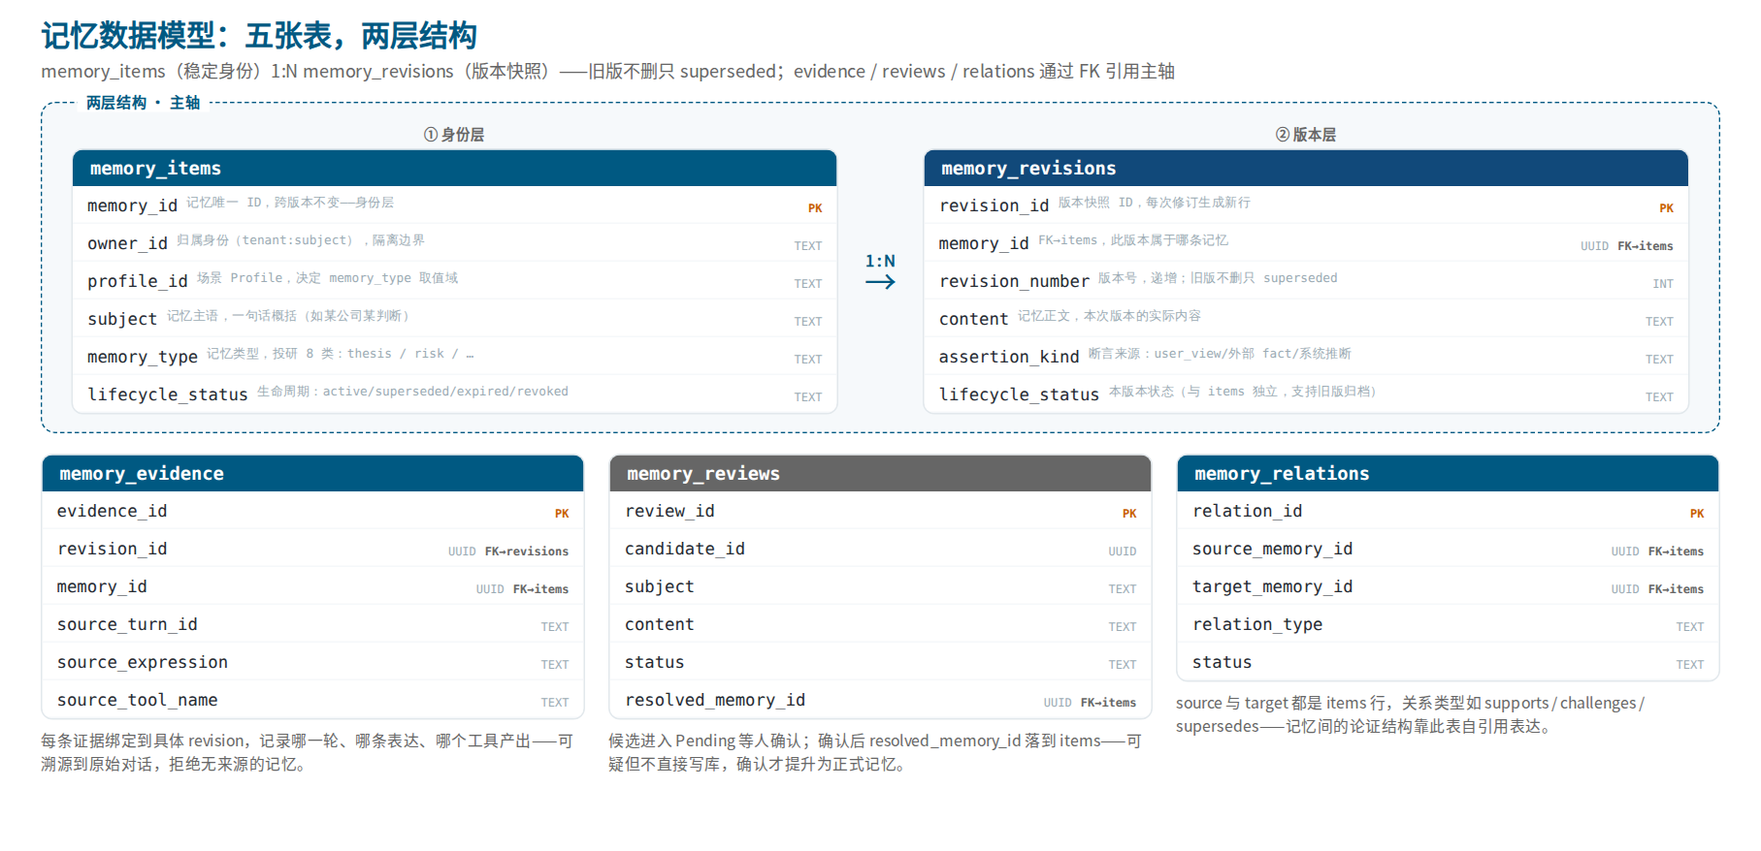
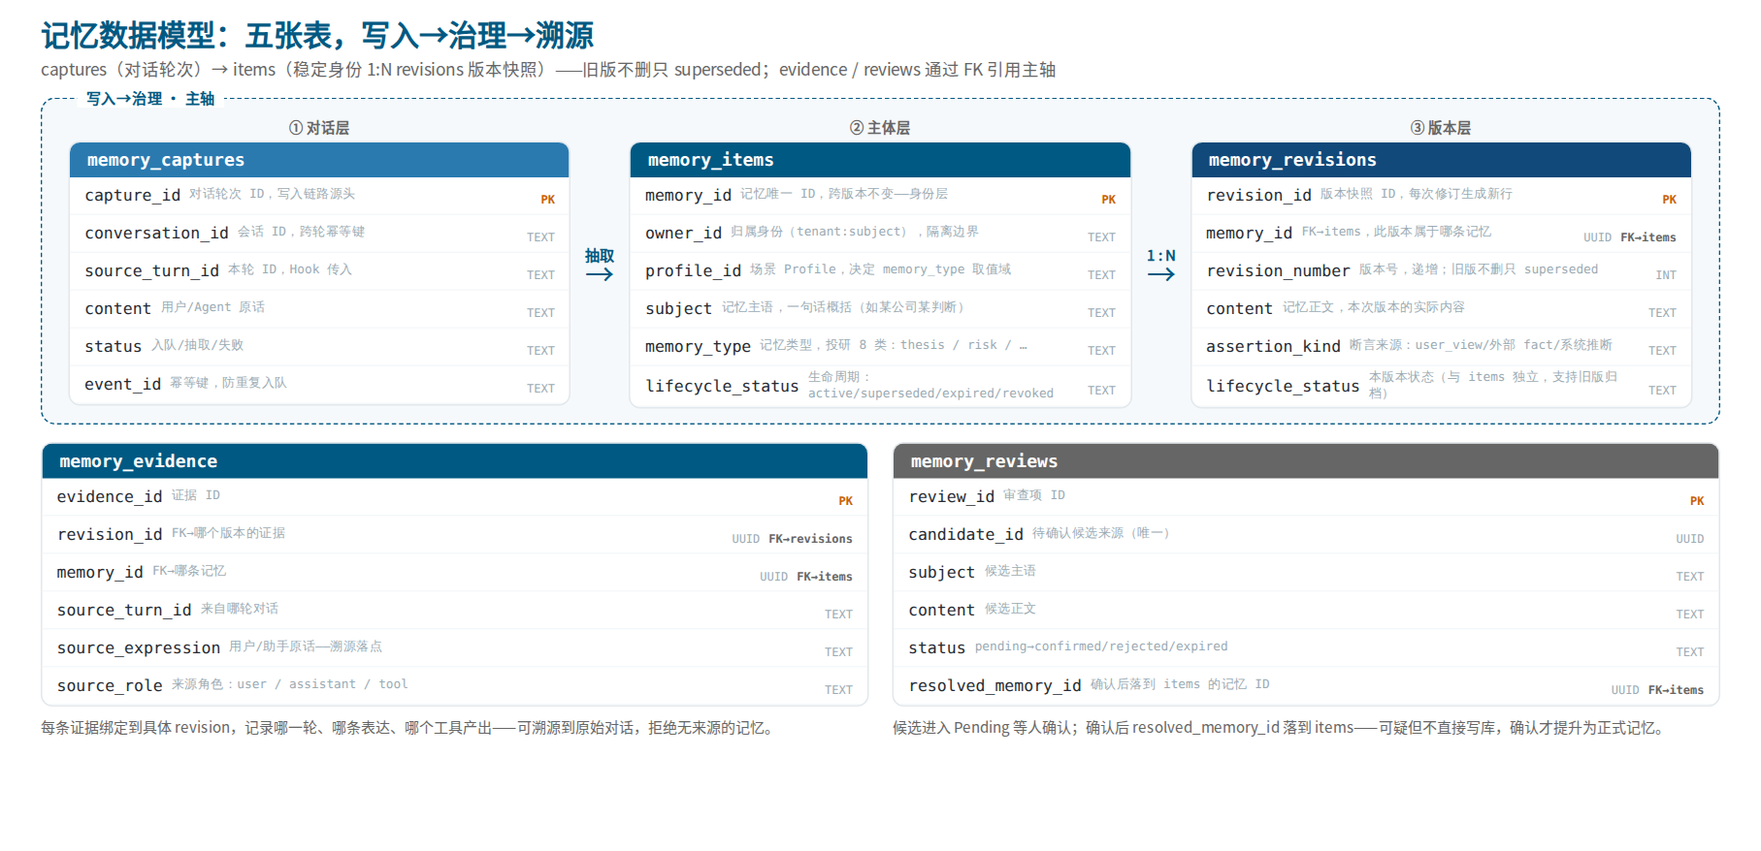
调整ppt内容

diff --git a/docs/ppt/render_html.py b/docs/ppt/render_html.py
@@ -445,8 +445,8 @@ def core_loop():
 
 # ===== P10 记忆数据模型（详细解释治理字段）=====
 def memory_model():
-    """记忆数据模型 = 五张表结构图。顶部横向主轴(items→1:N→revisions 虚线框=两层结构)，
-    下方三列附属表(evidence/reviews/relations)，表框自然高度+说明文字填空白。经 schema.sql 核实。"""
+    """记忆数据模型 = 六张表结构图。上区三表主轴(captures→items 1:N revisions，
+    对话→身份→版本)，下区三附属表(evidence/reviews/relations)。经 schema.sql 核实。"""
     def tbl(name, rows, accent, descs=None):
         """表框，自然高度。字段行：字段名(左)+解释(中,可选)+类型/PK/FK标签(右)。"""
         fr = ""
@@ -462,29 +462,29 @@ def memory_model():
             if desc:
                 fr += (f"<div style='display:flex;justify-content:space-between;align-items:center;gap:6px;"
                        f"padding:3px 10px;border-bottom:1px solid {C['vly']};font-family:monospace;'>"
-                       f"<span style='font-size:11.5px;color:{C['ink']};flex:0 0 auto;'>{fname}</span>"
+                       f"<span style='font-size:11px;color:{C['ink']};flex:0 0 auto;'>{fname}</span>"
                        f"<span style='font-size:8.5px;color:{C['gray']};line-height:1.25;flex:1;text-align:left;'>{desc}</span>"
                        f"<span style='flex:0 0 auto;'>{right}</span></div>")
             else:
                 fr += (f"<div style='display:flex;justify-content:space-between;align-items:center;"
                        f"padding:3px 10px;border-bottom:1px solid {C['vly']};font-family:monospace;'>"
-                       f"<span style='font-size:11.5px;color:{C['ink']};'>{fname}</span>"
+                       f"<span style='font-size:11px;color:{C['ink']};'>{fname}</span>"
                        f"<span>{right}</span></div>")
         return f"""
         <div style='border:1px solid {C['light']};border-radius:8px;overflow:hidden;background:#fff;flex:0 0 auto;'>
-          <div style='background:{accent};color:#fff;padding:5px 12px;font-size:12.5px;font-weight:800;font-family:monospace;'>{name}</div>
+          <div style='background:{accent};color:#fff;padding:5px 12px;font-size:12px;font-weight:800;font-family:monospace;'>{name}</div>
           {fr}
         </div>"""
 
-    def col(table_html, desc):
-        """下方附属表列：表(顶) + 说明文字(flex:1 填底)。"""
-        return f"""
-        <div style='flex:1;display:flex;flex-direction:column;'>
-          {table_html}
-          <div style='flex:1;margin-top:8px;font-size:10.5px;line-height:1.55;color:{C['mid']};'>{desc}</div>
-        </div>"""
-
-    # 五张表（经 schema.sql 核实字段名/类型/关系；上区两表带字段解释）
+    # 六张表（经 schema.sql 核实字段名/类型/关系；上区三表带字段解释）
+    cap_descs = {
+        "capture_id": "对话轮次 ID，写入链路源头",
+        "conversation_id": "会话 ID，跨轮幂等键",
+        "source_turn_id": "本轮 ID，Hook 传入",
+        "content": "用户/Agent 原话",
+        "status": "入队/抽取/失败",
+        "event_id": "幂等键，防重复入队",
+    }
     items_descs = {
         "memory_id": "记忆唯一 ID，跨版本不变——身份层",
         "owner_id": "归属身份（tenant:subject），隔离边界",
@@ -501,41 +501,65 @@ def memory_model():
         "assertion_kind": "断言来源：user_view/外部 fact/系统推断",
         "lifecycle_status": "本版本状态（与 items 独立，支持旧版归档）",
     }
+    cap_tbl = tbl("memory_captures", [
+        ("capture_id", "UUID", "PK"), ("conversation_id", "TEXT", ""),
+        ("source_turn_id", "TEXT", ""), ("content", "TEXT", ""),
+        ("status", "TEXT", ""), ("event_id", "TEXT", ""),
+    ], C["blue"], cap_descs)
     items_tbl = tbl("memory_items", [
-        ("memory_id", "UUID", "PK"), ("owner_id", "TEXT", ""), ("profile_id", "TEXT", ""),
-        ("subject", "TEXT", ""), ("memory_type", "TEXT", ""), ("lifecycle_status", "TEXT", ""),
+        ("memory_id", "UUID", "PK"), ("owner_id", "TEXT", ""),
+        ("profile_id", "TEXT", ""), ("subject", "TEXT", ""),
+        ("memory_type", "TEXT", ""), ("lifecycle_status", "TEXT", ""),
     ], C["navy"], items_descs)
     rev_tbl = tbl("memory_revisions", [
         ("revision_id", "UUID", "PK"), ("memory_id", "UUID", "FK→items"),
         ("revision_number", "INT", ""), ("content", "TEXT", ""),
         ("assertion_kind", "TEXT", ""), ("lifecycle_status", "TEXT", ""),
     ], C["deepnavy"], rev_descs)
+    ev_descs = {
+        "evidence_id": "证据 ID",
+        "revision_id": "FK→哪个版本的证据",
+        "memory_id": "FK→哪条记忆",
+        "source_turn_id": "来自哪轮对话",
+        "source_expression": "用户/助手原话——溯源落点",
+        "source_role": "来源角色：user / assistant / tool",
+    }
     ev_tbl = tbl("memory_evidence", [
         ("evidence_id", "UUID", "PK"), ("revision_id", "UUID", "FK→revisions"),
         ("memory_id", "UUID", "FK→items"), ("source_turn_id", "TEXT", ""),
-        ("source_expression", "TEXT", ""), ("source_tool_name", "TEXT", ""),
-    ], C["navy"])
+        ("source_expression", "TEXT", ""), ("source_role", "TEXT", ""),
+    ], C["navy"], ev_descs)
+    rv_descs = {
+        "review_id": "审查项 ID",
+        "candidate_id": "待确认候选来源（唯一）",
+        "subject": "候选主语",
+        "content": "候选正文",
+        "status": "pending→confirmed/rejected/expired",
+        "resolved_memory_id": "确认后落到 items 的记忆 ID",
+    }
     rev2_tbl = tbl("memory_reviews", [
         ("review_id", "UUID", "PK"), ("candidate_id", "UUID", ""),
         ("subject", "TEXT", ""), ("content", "TEXT", ""),
         ("status", "TEXT", ""), ("resolved_memory_id", "UUID", "FK→items"),
-    ], C["mid"])
+    ], C["mid"], rv_descs)
     rel_tbl = tbl("memory_relations", [
         ("relation_id", "UUID", "PK"), ("source_memory_id", "UUID", "FK→items"),
         ("target_memory_id", "UUID", "FK→items"), ("relation_type", "TEXT", ""),
         ("status", "TEXT", ""),
     ], C["navy"])
 
-    # 横向 1:N 箭头：items → revisions（两层结构主轴）
-    harrow = f"""
-    <div style='display:flex;flex-direction:column;align-items:center;justify-content:center;flex:0 0 auto;align-self:center;'>
-      <div style='font-size:11px;font-weight:800;color:{C['navy']};'>1 : N</div>
-      <div style='font-size:22px;color:{C['navy']};line-height:0.6;'>→</div>
-    </div>"""
+    # 横向箭头
+    def harrow(label):
+        return f"""
+        <div style='display:flex;flex-direction:column;align-items:center;justify-content:center;flex:0 0 auto;align-self:center;'>
+          <div style='font-size:10px;font-weight:800;color:{C['navy']};'>{label}</div>
+          <div style='font-size:20px;color:{C['navy']};line-height:0.6;'>→</div>
+        </div>"""
     layer_tag = f"""
-    <div style='position:absolute;top:-9px;left:24px;background:#fff;padding:0 6px;font-size:10px;font-weight:800;color:{C['navy']};letter-spacing:0.5px;'>两层结构 · 主轴</div>"""
-    l1 = f"<div style='font-size:9.5px;color:{C['mid']};font-weight:700;text-align:center;margin-bottom:3px;'>① 身份层</div>"
-    l2 = f"<div style='font-size:9.5px;color:{C['mid']};font-weight:700;text-align:center;margin-bottom:3px;'>② 版本层</div>"
+    <div style='position:absolute;top:-9px;left:24px;background:#fff;padding:0 6px;font-size:10px;font-weight:800;color:{C['navy']};letter-spacing:0.5px;'>写入→治理 · 主轴</div>"""
+    l0 = f"<div style='font-size:9.5px;color:{C['mid']};font-weight:700;text-align:center;margin-bottom:3px;'>① 对话层</div>"
+    l1 = f"<div style='font-size:9.5px;color:{C['mid']};font-weight:700;text-align:center;margin-bottom:3px;'>② 主体层</div>"
+    l2 = f"<div style='font-size:9.5px;color:{C['mid']};font-weight:700;text-align:center;margin-bottom:3px;'>③ 版本层</div>"
 
     # 附属表说明文字（核实语义）
     ev_desc = "每条证据绑定到具体 revision，记录哪一轮、哪条表达、哪个工具产出——可溯源到原始对话，拒绝无来源的记忆。"
@@ -544,21 +568,22 @@ def memory_model():
 
     body = f"""
     <div style='padding:8px 28px 0 28px;'>
-      <div class='h2' style='font-size:20px;'>记忆数据模型：五张表，两层结构</div>
-      <div class='sub' style='margin-top:2px;font-size:12px;'>memory_items（稳定身份）1:N memory_revisions（版本快照）——旧版不删只 superseded；evidence / reviews / relations 通过 FK 引用主轴</div>
+      <div class='h2' style='font-size:20px;'>记忆数据模型：五张表，写入→治理→溯源</div>
+      <div class='sub' style='margin-top:2px;font-size:11.5px;'>captures（对话轮次）→ items（稳定身份 1:N revisions 版本快照）——旧版不删只 superseded；evidence / reviews 通过 FK 引用主轴</div>
     </div>
-    <!-- 上区：两层结构主轴（虚线框只包 items→revisions） -->
-    <div style='position:relative;border:1.5px dashed {C['navy']};border-radius:10px;padding:14px 20px 12px;margin:14px 28px 0 28px;display:flex;align-items:flex-start;gap:18px;background:rgba(0,89,130,0.035);'>
+    <!-- 上区：三表主轴（虚线框包 captures→items→revisions） -->
+    <div style='position:relative;border:1.5px dashed {C['navy']};border-radius:10px;padding:12px 18px 10px;margin:12px 28px 0 28px;display:flex;align-items:flex-start;gap:10px;background:rgba(0,89,130,0.035);'>
       {layer_tag}
+      <div style='flex:1;'>{l0}{cap_tbl}</div>
+      {harrow("抽取")}
       <div style='flex:1;'>{l1}{items_tbl}</div>
-      {harrow}
+      {harrow("1 : N")}
       <div style='flex:1;'>{l2}{rev_tbl}</div>
     </div>
-    <!-- 下区：三张附属表横排（均在两层结构之外，FK 引用主轴） -->
-    <div style='display:flex;gap:16px;margin:14px 28px 0 28px;align-items:stretch;'>
-      <div style='flex:1;display:flex;flex-direction:column;'>{ev_tbl}<div style='flex:1;margin-top:6px;font-size:10.5px;line-height:1.55;color:{C['mid']};'>{ev_desc}</div></div>
-      <div style='flex:1;display:flex;flex-direction:column;'>{rev2_tbl}<div style='flex:1;margin-top:6px;font-size:10.5px;line-height:1.55;color:{C['mid']};'>{rv_desc}</div></div>
-      <div style='flex:1;display:flex;flex-direction:column;'>{rel_tbl}<div style='flex:1;margin-top:6px;font-size:10.5px;line-height:1.55;color:{C['mid']};'>{rl_desc}</div></div>
+    <!-- 下区：两张附属表横排（FK 引用主轴：证据 + 审查） -->
+    <div style='display:flex;gap:16px;margin:12px 28px 0 28px;align-items:stretch;'>
+      <div style='flex:1;display:flex;flex-direction:column;'>{ev_tbl}<div style='flex:1;margin-top:6px;font-size:10px;line-height:1.55;color:{C['mid']};'>{ev_desc}</div></div>
+      <div style='flex:1;display:flex;flex-direction:column;'>{rev2_tbl}<div style='flex:1;margin-top:6px;font-size:10px;line-height:1.55;color:{C['mid']};'>{rv_desc}</div></div>
     </div>"""
     return _page(body)
 
@@ -1089,29 +1114,21 @@ def test_design_full():
 
 
 # ===== P18 演示 =====
-def _demo_contrast_page(title, condition, left_one, right_one):
-    """对照页：顶部标题 → 左右对话截图占位（撑满到底，无 DB 条）。
-    要点压成一句，截图区留空，画布绝大部分留给截图。"""
+def _demo_contrast_page(title, left_tag, right_tag):
+    """对照页：标题 → 左右对话截图占位撑满到底，只留左右标签区分。"""
     NAVY = C["navy"]
     body = f"""
-    <div style='padding:20px 30px 0 30px;display:flex;align-items:baseline;justify-content:space-between;gap:24px;'>
+    <div style='padding:20px 30px 0 30px;'>
       <div class='h2' style='font-size:21px;'>{title}</div>
-      <div class='sub' style='font-size:12.5px;white-space:nowrap;'>{condition}</div>
     </div>
-    <div style='position:absolute;top:74px;left:30px;right:30px;bottom:20px;display:flex;gap:16px;'>
+    <div style='position:absolute;top:64px;left:30px;right:30px;bottom:20px;display:flex;gap:16px;'>
       <div style='flex:1;background:{C['vly']};border:1.5px dashed {C['light']};border-radius:10px;padding:12px 16px;display:flex;flex-direction:column;'>
-        <div style='display:flex;align-items:center;gap:8px;margin-bottom:8px;'>
-          <span style='background:#bbb;color:#fff;border-radius:3px;padding:2px 8px;font-size:11px;font-weight:700;'>无记忆</span>
-          <span style='font-size:12px;color:{C['mid']};'>{left_one}</span>
-        </div>
-        <div style='flex:1;background:#fff;border-radius:6px;'></div>
+        <span style='background:#bbb;color:#fff;border-radius:3px;padding:3px 10px;font-size:12px;font-weight:700;align-self:flex-start;'>{left_tag}</span>
+        <div style='flex:1;background:#fff;border-radius:6px;margin-top:10px;'></div>
       </div>
       <div style='flex:1;background:{C['pblue']};border:1.5px solid {NAVY};border-radius:10px;padding:12px 16px;display:flex;flex-direction:column;'>
-        <div style='display:flex;align-items:center;gap:8px;margin-bottom:8px;'>
-          <span style='background:{NAVY};color:#fff;border-radius:3px;padding:2px 8px;font-size:11px;font-weight:700;'>有记忆</span>
-          <span style='font-size:12px;color:{NAVY};'>{right_one}</span>
-        </div>
-        <div style='flex:1;background:#fff;border-radius:6px;'></div>
+        <span style='background:{NAVY};color:#fff;border-radius:3px;padding:3px 10px;font-size:12px;font-weight:700;align-self:flex-start;'>{right_tag}</span>
+        <div style='flex:1;background:#fff;border-radius:6px;margin-top:10px;'></div>
       </div>
     </div>"""
     return _page(body)
@@ -1121,34 +1138,26 @@ def demo_contrast_continue():
     """P19 延续性对照"""
     return _demo_contrast_page(
         "延续性：新开会话能不能从上次判断继续",
-        "同一投资对象，新开一个会话再问",
-        "每次从零开始，泛泛而谈",
-        "召回上次判断，延续推理",
+        "无记忆",
+        "有记忆",
     )
 
 
-def _demo_scene_page(title, condition, one_liner, db_label):
-    """场景页：顶部标题 → 左对话截图 + 右 DB 截图（左右撑满到底，截图区留空）。"""
+def _demo_scene_page(title):
+    """场景页：标题 → 左对话截图 + 右 DB 截图撑满到底，只留左右标签。"""
     NAVY = C["navy"]
     body = f"""
-    <div style='padding:20px 30px 0 30px;display:flex;align-items:baseline;justify-content:space-between;gap:24px;'>
+    <div style='padding:20px 30px 0 30px;'>
       <div class='h2' style='font-size:21px;'>{title}</div>
-      <div class='sub' style='font-size:12.5px;white-space:nowrap;'>{condition}</div>
     </div>
-    <div style='position:absolute;top:74px;left:30px;right:30px;bottom:20px;display:flex;gap:16px;'>
+    <div style='position:absolute;top:64px;left:30px;right:30px;bottom:20px;display:flex;gap:16px;'>
       <div style='flex:1.15;background:{C['pblue']};border:1.5px solid {NAVY};border-radius:10px;padding:12px 16px;display:flex;flex-direction:column;'>
-        <div style='display:flex;align-items:center;gap:8px;margin-bottom:8px;'>
-          <span style='background:{NAVY};color:#fff;border-radius:3px;padding:2px 8px;font-size:11px;font-weight:700;'>对话</span>
-          <span style='font-size:12px;color:{NAVY};'>{one_liner}</span>
-        </div>
-        <div style='flex:1;background:#fff;border-radius:6px;'></div>
+        <span style='background:{NAVY};color:#fff;border-radius:3px;padding:3px 10px;font-size:12px;font-weight:700;align-self:flex-start;'>对话</span>
+        <div style='flex:1;background:#fff;border-radius:6px;margin-top:10px;'></div>
       </div>
       <div style='flex:1;background:#fff;border:1px solid {NAVY};border-radius:10px;padding:12px 16px;display:flex;flex-direction:column;'>
-        <div style='display:flex;align-items:center;gap:8px;margin-bottom:8px;'>
-          <span style='background:{NAVY};color:#fff;border-radius:3px;padding:2px 8px;font-size:11px;font-weight:700;'>DB</span>
-          <span style='font-size:12px;color:{NAVY};'>{db_label}</span>
-        </div>
-        <div style='flex:1;background:#fff;border:1px solid {C['light']};border-radius:6px;'></div>
+        <span style='background:{NAVY};color:#fff;border-radius:3px;padding:3px 10px;font-size:12px;font-weight:700;align-self:flex-start;'>DB</span>
+        <div style='flex:1;background:#fff;border:1px solid {C['light']};border-radius:6px;margin-top:10px;'></div>
       </div>
     </div>"""
     return _page(body)
@@ -1156,44 +1165,44 @@ def _demo_scene_page(title, condition, one_liner, db_label):
 
 def demo_scene_revise():
     """P20 判断演进场景"""
-    return _demo_scene_page(
-        "判断演进：改判断，记忆怎么跟着变",
-        "用户中途修正投资判断",
-        "用户改判断 A→B，capture 自动 replacement，旧版保留",
-        "memory_revisions 表：每次修订留痕",
-    )
+    return _demo_scene_page("判断演进：改判断，记忆怎么跟着变")
 
 
 def demo_scene_converge():
     """P21 跨人收敛场景"""
-    return _demo_scene_page(
-        "跨人收敛：两人各建各的，能否收敛到团队共识",
-        "subject-001 / subject-002 各自建判断",
-        "两人各建判断、互相可见，收敛后 confirm 成团队记忆",
-        "团队记忆 + confirm 记录",
-    )
+    return _demo_scene_page("跨人收敛：两人各建各的，能否收敛到团队共识")
 
 
 # ===== P23 总结 =====
 def summary_full():
-    """P23 总结：上工作量(3) + 下优化点(3) + 底部项目地址页脚条"""
+    """P23 总结：工作量(三大数字 + 表名/工具名标签云) + 优化点(3) + 项目地址页脚"""
     NAVY = C["navy"]
-    work = [
-        ("10", "张数据表", "记忆身份·版本·证据·审查·关系\n治理全沉淀在 schema 层"),
-        ("13", "个 MCP 工具", "捕获·召回·审查·关系·撤销\n标准协议，换 Agent 不丢记忆"),
-        ("2.2 万", "行实现代码", "Server + 轻量 Agent Client\n含 PostgreSQL 适配与异步治理"),
+    # 三大数字横排（数字+单位，无清单，纯数字醒目）
+    nums = [
+        ("10", "张数据表"),
+        ("13", "个 MCP 工具"),
+        ("1.8 万", "行实现代码"),
     ]
-    wcards = ""
-    for n, u, d in work:
-        dd = d.replace("\n", "<br>")
-        wcards += f"""
-        <div style='flex:1;background:{C['pblue']};border-radius:14px;padding:22px 26px;display:flex;flex-direction:column;justify-content:center;gap:14px;'>
-          <div style='display:flex;align-items:baseline;gap:8px;'>
-            <span style='font-size:42px;font-weight:800;color:{NAVY};line-height:1;'>{n}</span>
-            <span style='font-size:17px;font-weight:700;color:{NAVY};'>{u}</span>
-          </div>
-          <div style='font-size:17px;color:{C['ink']};line-height:1.95;'>{dd}</div>
+    ncards = ""
+    for n, u in nums:
+        ncards += f"""
+        <div style='flex:1;background:#fff;border-radius:10px;padding:14px 18px;display:flex;align-items:baseline;justify-content:center;gap:10px;'>
+          <span style='font-size:44px;font-weight:800;color:{NAVY};line-height:1;'>{n}</span>
+          <span style='font-size:17px;font-weight:700;color:{NAVY};'>{u}</span>
         </div>"""
+    # 表名 + 工具名做小标签云
+    tables = ["memory_items", "memory_revisions", "memory_captures", "memory_evidence",
+              "memory_reviews", "memory_relations", "memory_evidence_documents",
+              "memory_review_documents", "memory_capture_outcomes", "memory_team_extractions"]
+    tools = ["capture_completed_turn", "recall_memory", "search_memories", "list_memories",
+             "get_memory", "revoke_memory", "link_memories", "revoke_memory_relation",
+             "list_pending_reviews", "confirm_pending_memory", "reject_pending_memory",
+             "batch_confirm_pending", "get_memory_stats"]
+    def chips(names):
+        return "".join(
+            f"<span style='background:#fff;border:1px solid {C['light']};border-radius:4px;"
+            f"padding:3px 8px;font-size:10.5px;font-family:monospace;color:{NAVY};'>{n}</span>"
+            for n in names)
     nxt = [
         ("记忆质量闭环", "抽取置信度评分 + 召回未命中信号回流，反哺 prompt 与阈值迭代"),
         ("真实鉴权逻辑", "当前静态 Token，接入 OAuth/JWT 等真实鉴权与租户管理"),
@@ -1202,21 +1211,36 @@ def summary_full():
     nrows = ""
     for h, b in nxt:
         nrows += f"""
-        <div style='flex:1;background:#fff;border:1.5px solid {NAVY};border-radius:14px;padding:22px 26px;display:flex;flex-direction:column;justify-content:center;gap:14px;'>
-          <div style='font-size:20px;font-weight:800;color:{NAVY};'>{h}</div>
-          <div style='font-size:17px;color:{C['ink']};line-height:1.95;'>{b}</div>
+        <div style='flex:1;background:#fff;border:1.5px solid {NAVY};border-radius:14px;padding:16px 22px;display:flex;flex-direction:column;justify-content:center;gap:10px;'>
+          <div style='font-size:18px;font-weight:800;color:{NAVY};'>{h}</div>
+          <div style='font-size:15px;color:{C['ink']};line-height:1.8;'>{b}</div>
         </div>"""
     body = f"""
-    <div style='padding:26px 30px 0 30px;'>
+    <div style='padding:22px 30px 0 30px;'>
       <div class='h2' style='font-size:22px;'>总结：工作量与后续优化</div>
     </div>
-    <div style='position:absolute;top:72px;left:30px;right:30px;height:198px;display:flex;gap:16px;'>{wcards}
+    <!-- 上段：工作量（数字 + 标签云包在同一个 pblue 大容器） -->
+    <div style='position:absolute;top:62px;left:30px;right:30px;height:290px;background:{C['pblue']};border-radius:14px;padding:18px 24px;display:flex;flex-direction:column;'>
+      <div style='display:flex;gap:16px;margin-bottom:14px;'>{ncards}
+      </div>
+      <div style='display:flex;align-items:center;gap:10px;margin-bottom:8px;'>
+        <span style='font-size:12px;font-weight:800;color:{NAVY};white-space:nowrap;'>10 张表</span>
+        <div style='flex:1;height:1px;background:rgba(0,89,130,0.25);'></div>
+      </div>
+      <div style='display:flex;flex-wrap:wrap;gap:6px;margin-bottom:12px;'>{chips(tables)}</div>
+      <div style='display:flex;align-items:center;gap:10px;margin-bottom:8px;'>
+        <span style='font-size:12px;font-weight:800;color:{NAVY};white-space:nowrap;'>13 个工具</span>
+        <div style='flex:1;height:1px;background:rgba(0,89,130,0.25);'></div>
+      </div>
+      <div style='display:flex;flex-wrap:wrap;gap:6px;'>{chips(tools)}</div>
     </div>
-    <div style='position:absolute;top:294px;left:30px;right:30px;'>
-      <div style='font-size:18px;font-weight:800;color:{NAVY};margin-bottom:12px;'>后续优化方向</div>
-      <div style='display:flex;gap:16px;height:185px;'>{nrows}</div>
+    <!-- 下段：后续优化方向（三白底卡）紧跟上段下方 -->
+    <div style='position:absolute;top:366px;left:30px;right:30px;'>
+      <div style='font-size:16px;font-weight:800;color:{NAVY};margin-bottom:8px;'>后续优化方向</div>
+      <div style='display:flex;gap:16px;height:118px;'>{nrows}</div>
     </div>
-    <div style='position:absolute;bottom:16px;left:30px;right:30px;background:{NAVY};border-radius:8px;padding:10px 20px;display:flex;align-items:center;justify-content:center;gap:14px;'>
+    <!-- 项目地址页脚 -->
+    <div style='position:absolute;bottom:14px;left:30px;right:30px;background:{NAVY};border-radius:8px;padding:9px 20px;display:flex;align-items:center;justify-content:center;gap:14px;'>
       <span style='font-size:13px;color:#cfe;'>项目地址</span>
       <span style='font-size:15px;font-weight:700;color:#fff;font-family:monospace;letter-spacing:0.3px;'>https://github.com/dxiaosen/memory-mcp</span>
     </div>"""
@@ -1255,7 +1279,7 @@ RENDERERS = {
     "P14": team_flow, "P15": isolation,
     # P17 第三章章封 —— 待做
     "P18": test_design_full,
-    "P19": demo_contrast_continue, "P20": demo_scene_revise, "P21": demo_scene_converge,
+    # P19~ 演示页：用户用真实截图贴 PPT，不渲染占位 —— 待定页号
     # P22 第四章章封 —— 待做
     "P23": summary_full,
 }
